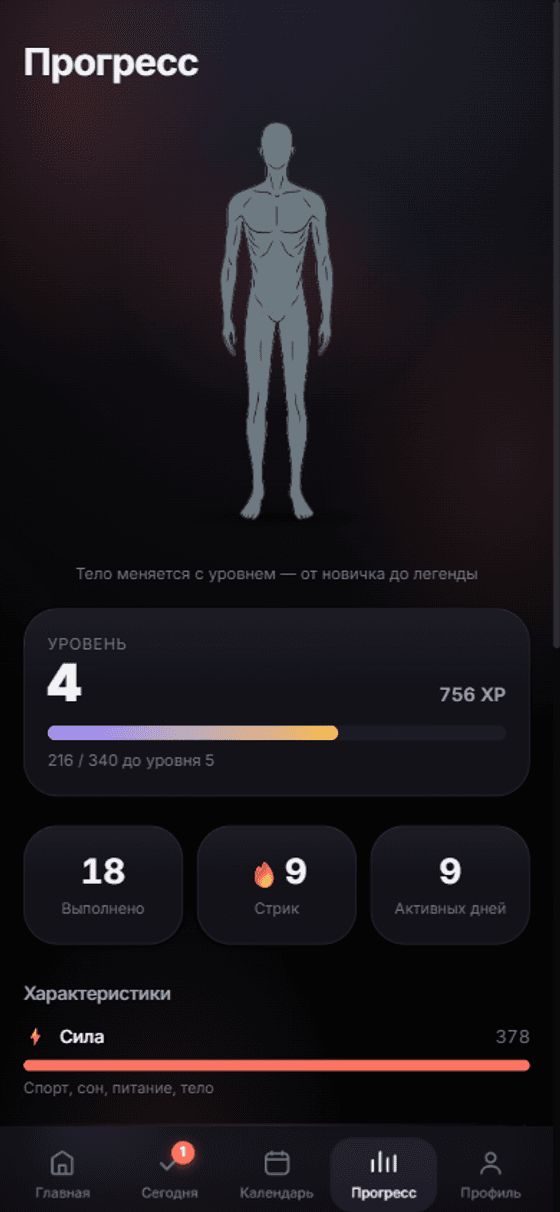
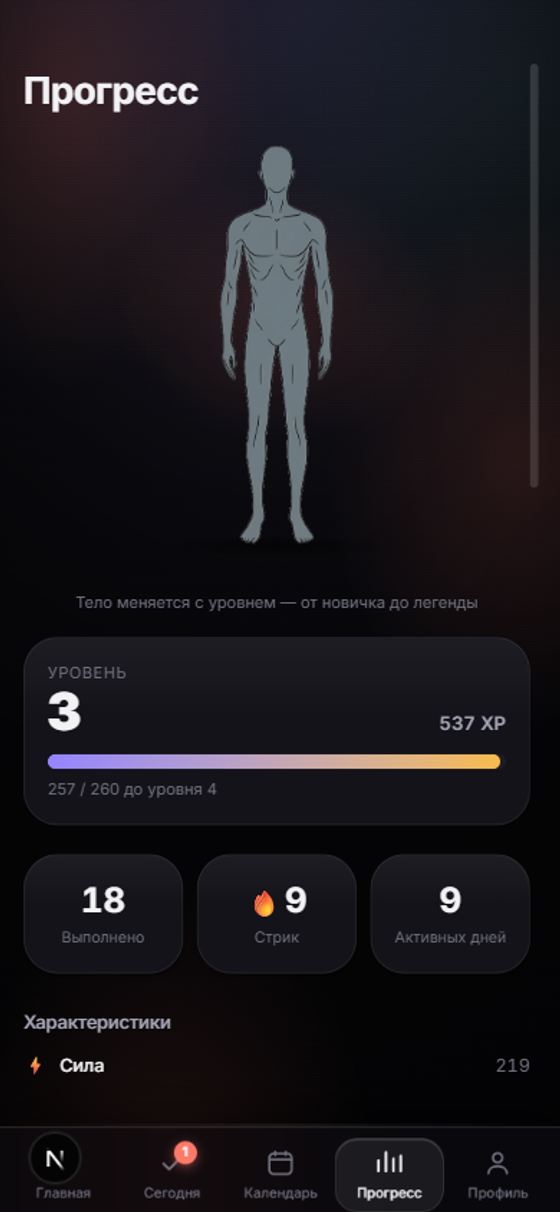
fix(landing): убрал устаревшие/неверные факты, обновил скриншоты
Аудит лендинга против реального кода/данных выявил:
- "176 полезных действий" в одном месте vs "159" в другом (ACTION_POOL
  реально содержит 159) — расхождение само с собой, убрал.
- "Четыре характеристики" — стат "Здоровье" добавили ранее в этой сессии,
  сейчас их пять (strength/intelligence/wealth/stability/health).
- "Умные напоминания: два раза в день" — недооценивало реальную систему:
  помимо утра/вечера теперь ещё проактивные напоминания по ходу задачи и
  по времени задач календаря (buildSchedule/dispatch, из этой же сессии).
- Скриншоты (public/shots/*.png) были явно устаревшими — в шапке deck.png
  буквально было написано "YeahDays" вместо текущего "YeahGrind", а
  today.png не отражал текущую вёрстку раздела (нет расписания дня).
  Пересобрал все три с нуля: поднял dev-сервер, засеял правдоподобное
  демо-состояние через localStorage (без единого затрагивания реальных
  аккаунтов — БД проверена, ничего не задето), снял скриншоты живого UI
  и привёл к прежнему размеру 560×1212.

Остальные пункты (159 действий, 12 лестниц, 2 заморозки в месяц, Google
вход, бесплатность, todo-фичи) проверены и подтверждены — не трогал.

diff --git a/src/app/page.tsx b/src/app/page.tsx
@@ -102,7 +102,7 @@ const FEATURES = [
   {
     icon: "🔔",
     title: "Умные напоминания",
-    text: "Два раза в день по твоему часовому поясу. Вечернее время подстраивается под час, когда ты реально закрываешь дела. Закрыл норму — не потревожим.",
+    text: "Утро и вечер по твоему часовому поясу — час подстраивается под то, когда ты реально закрываешь дела, а закрыл норму — не потревожим. Плюс отдельные напоминания по задаче со временем и по ходу того, что сейчас в работе.",
   },
   {
     icon: "📱",
@@ -117,7 +117,7 @@ const FEATURES = [
   {
     icon: "🧍",
     title: "Персонаж растёт с тобой",
-    text: "Четыре характеристики качаются от того, что ты реально закрываешь. Прогресс видно, а не только в цифрах на экране.",
+    text: "Пять характеристик — сила, интеллект, капитал, стабильность, здоровье — качаются от того, что ты реально закрываешь. Прогресс видно, а не только в цифрах на экране.",
   },
 ];
 
@@ -274,7 +274,7 @@ export default function LandingPage() {
             <p className="mt-6 max-w-2xl text-[16px] leading-relaxed text-[var(--color-fg-dim)]">
               Обычный трекер — это хранилище: ты сам придумал задачи, сам их
               записал, сам про них забыл. YeahGrind устроен наоборот. Он знает
-              176 полезных действий и каждый день собирает из них небольшую
+              159 полезных действий и каждый день собирает из них небольшую
               колоду именно под тебя: под твои приоритеты, под время суток,
               под то, сколько у тебя сейчас сил и минут.
             </p>
